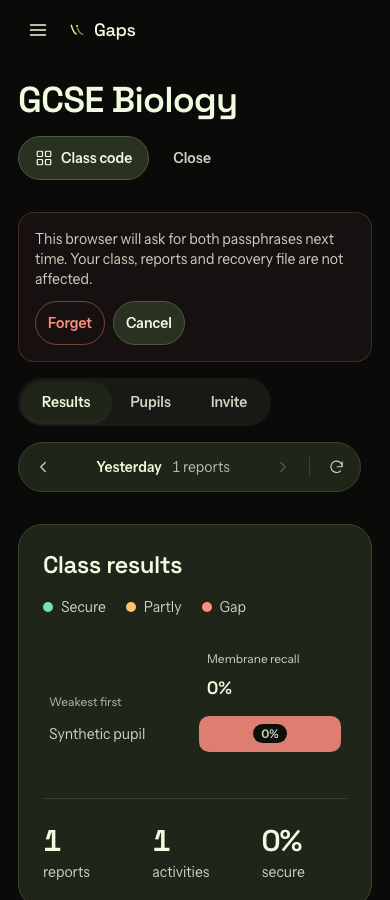
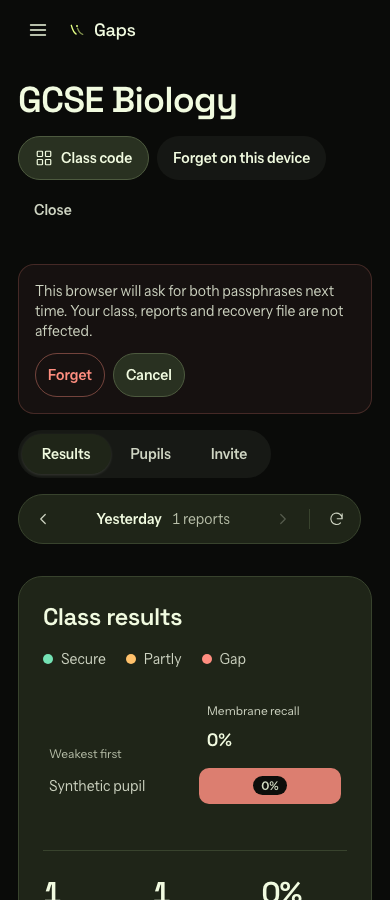
Make forgetting a remembered class all-or-error

diff --git a/src/teacher/TeacherClassReports.tsx b/src/teacher/TeacherClassReports.tsx
@@ -100,6 +100,7 @@ export function ClassPage({
   const earliest = isoDayLabel(isoDayStartMs(latest) - (RETENTION_DAYS - 1) * DAY_MS);
   const [forgetting, setForgetting] = useState(false);
   const [forgetBusy, setForgetBusy] = useState(false);
+  const [forgetError, setForgetError] = useState('');
   const forgetTrigger = useRef<HTMLButtonElement>(null);
   const cancelForget = useRef<HTMLButtonElement>(null);
   const wasForgetting = useRef(false);
@@ -180,7 +181,7 @@ export function ClassPage({
         <h1 tabIndex={-1} data-page-title className={cn(PAGE_TITLE, 'min-w-0 break-words')}>
           {course.courseName}
         </h1>
-        <div className="flex shrink-0 items-center gap-2">
+        <div className="flex min-w-0 flex-wrap items-center gap-2">
           {session && (
             <>
               <button
@@ -190,6 +191,16 @@ export function ClassPage({
               >
                 <QrCodeIcon width={18} height={18} /> Class code
               </button>
+              {session.remembered && (
+                <button
+                  ref={forgetTrigger}
+                  type="button"
+                  className={buttonClassName('ghost')}
+                  onClick={() => setForgetting(true)}
+                >
+                  Forget on this device
+                </button>
+              )}
               <button type="button" onClick={onLock} className={buttonClassName('ghost')}>
                 {session.remembered ? 'Close' : 'Lock'}
               </button>
@@ -198,60 +209,62 @@ export function ClassPage({
         </div>
       </header>
 
-      {session?.remembered && (
+      {session?.remembered && forgetting && (
         <div className="mb-4">
-          {forgetting ? (
-            <div
-              role="group"
-              aria-busy={forgetBusy}
-              onKeyDown={(event) => {
-                if (event.key === 'Escape' && !forgetBusy) {
-                  setForgetting(false);
-                }
-              }}
-              className="gaps-fade flex flex-col gap-3 rounded-2xl border border-negative/20 bg-negative/5 p-4 sm:flex-row sm:items-center"
-            >
-              <span className="min-w-0 flex-1 text-sm text-ink-soft">
+          <div
+            role="group"
+            aria-busy={forgetBusy}
+            onKeyDown={(event) => {
+              if (event.key === 'Escape' && !forgetBusy) {
+                setForgetError('');
+                setForgetting(false);
+              }
+            }}
+            className="gaps-fade flex flex-col gap-3 rounded-2xl border border-negative/20 bg-negative/5 p-4 sm:flex-row sm:items-center"
+          >
+            <div className="min-w-0 flex-1">
+              <p className="text-sm text-ink-soft">
                 This browser will ask for both passphrases next time. Your class, reports and
                 recovery file are not affected.
-              </span>
-              <div className="flex flex-wrap gap-2">
-                <button
-                  type="button"
-                  disabled={forgetBusy}
-                  className={buttonClassName('danger', 'sm')}
-                  onClick={() => {
-                    setForgetBusy(true);
-                    void forgetRememberedClass(course.shareId)
-                      .then(onLock)
-                      .catch(() => setForgetBusy(false));
-                  }}
-                >
-                  Forget
-                </button>
-                <button
-                  ref={cancelForget}
-                  type="button"
-                  disabled={forgetBusy}
-                  className={buttonClassName('secondary', 'sm')}
-                  onClick={() => {
-                    setForgetting(false);
-                  }}
-                >
-                  Cancel
-                </button>
-              </div>
+              </p>
+              {forgetError && (
+                <p role="alert" className="text-negative text-sm">
+                  {forgetError}
+                </p>
+              )}
             </div>
-          ) : (
-            <button
-              ref={forgetTrigger}
-              type="button"
-              className={buttonClassName('secondary')}
-              onClick={() => setForgetting(true)}
-            >
-              Forget on this device
-            </button>
-          )}
+            <div className="flex flex-wrap gap-2">
+              <button
+                type="button"
+                disabled={forgetBusy}
+                className={buttonClassName('danger', 'sm')}
+                onClick={() => {
+                  setForgetError('');
+                  setForgetBusy(true);
+                  void forgetRememberedClass(course.shareId)
+                    .then(onLock)
+                    .catch(() => {
+                      setForgetError('Could not forget this class. Try again.');
+                      setForgetBusy(false);
+                    });
+                }}
+              >
+                Forget
+              </button>
+              <button
+                ref={cancelForget}
+                type="button"
+                disabled={forgetBusy}
+                className={buttonClassName('secondary', 'sm')}
+                onClick={() => {
+                  setForgetError('');
+                  setForgetting(false);
+                }}
+              >
+                Cancel
+              </button>
+            </div>
+          </div>
         </div>
       )}
 

diff --git a/src/teacher/rememberedClass.test.ts b/src/teacher/rememberedClass.test.ts
@@ -1,6 +1,8 @@
 import 'fake-indexeddb/auto';
 import Dexie from 'dexie';
-import { afterEach, beforeEach, expect, it } from 'vitest';
+import { afterEach, beforeEach, expect, it, vi } from 'vitest';
+import * as ownerStore from '../insights/ownerStore';
+import * as connectionStore from './connectionStore';
 import { createInsightsOwnerStore } from '../insights/ownerStore';
 import { DEFAULT_RELAY_URL } from '../sync/pairingConfig';
 import { sealGapsConnection } from './connectionFile';
@@ -16,6 +18,7 @@ beforeEach(() => {
   keys = createInsightsOwnerStore();
 });
 afterEach(async () => {
+  vi.restoreAllMocks();
   connections.close();
   keys.close();
   await Dexie.delete('lacuna.gaps.connections');
@@ -44,7 +47,7 @@ it('reopens a complete session and forgets both credentials without removing the
     remembered: true,
   });
   await forgetRememberedClass(shareId);
-  expect(await readRememberedClass(shareId)).toBeNull();
+  expect(await readRememberedClass(shareId)).toBeUndefined();
   expect(await connections.readRemembered(shareId)).toBeNull();
   expect(await keys.readRemembered(shareId)).toBeNull();
   expect(await connections.unlock(shareId, phrase)).toEqual(session.connection);
@@ -62,7 +65,48 @@ it('deletes both device entries if the recovery recipient no longer matches', as
   await inspection.open();
   await inspection.table('remembered').update(shareId, { keyId: 'wrong' });
   inspection.close();
-  expect(await readRememberedClass(shareId)).toBeNull();
+  expect(await readRememberedClass(shareId)).toBeUndefined();
   expect(await connections.readRemembered(shareId)).toBeNull();
   expect(await keys.readRemembered(shareId)).toBeNull();
 });
+
+it.each(['connection', 'key'] as const)(
+  'falls back when only the %s artefact exists',
+  async (remaining) => {
+    const session = await fixture();
+    await rememberClass(session);
+    await (remaining === 'connection' ? keys : connections).forgetRemembered(shareId);
+    expect(await readRememberedClass(shareId)).toBeUndefined();
+    expect(await connections.readRemembered(shareId)).toBeNull();
+    expect(await keys.readRemembered(shareId)).toBeNull();
+  },
+);
+
+it.each(['connection', 'key'] as const)(
+  'still deletes the other artefact when %s deletion fails',
+  async (failing) => {
+    const session = await fixture();
+    await rememberClass(session);
+    const failure = new Error('Deletion failed');
+    if (failing === 'connection') {
+      vi.spyOn(connectionStore, 'createGapsConnectionStore').mockReturnValueOnce({
+        ...connections,
+        forgetRemembered: vi.fn().mockRejectedValue(failure),
+        close: vi.fn(),
+      });
+    } else {
+      vi.spyOn(ownerStore, 'createInsightsOwnerStore').mockReturnValueOnce({
+        ...keys,
+        forgetRemembered: vi.fn().mockRejectedValue(failure),
+        close: vi.fn(),
+      });
+    }
+    await expect(forgetRememberedClass(shareId)).rejects.toThrow(failure);
+    expect(
+      await (failing === 'connection' ? keys : connections).readRemembered(shareId),
+    ).toBeNull();
+    expect(
+      await (failing === 'connection' ? connections : keys).readRemembered(shareId),
+    ).not.toBeNull();
+  },
+);

diff --git a/src/teacher/TeacherClassReports.test.tsx b/src/teacher/TeacherClassReports.test.tsx
@@ -523,3 +523,44 @@ it('forgets a pending remember completion if removal revoked its session', async
   expect(mocks.forgetRemembered).toHaveBeenCalledWith(course.shareId);
   expect(mocks.read).not.toHaveBeenCalled();
 });
+
+it('keeps failed Forget visible and retryable until cancelled or retried', async () => {
+  mocks.remember.mockResolvedValue(true);
+  mocks.forgetRemembered.mockRejectedValue(new Error('Deletion failed'));
+  render(<Harness />);
+  await unlock();
+  const trigger = await screen.findByRole('button', { name: 'Forget on this device' });
+  fireEvent.click(trigger);
+  expect(screen.getByRole('button', { name: 'Cancel' })).toHaveFocus();
+  fireEvent.click(screen.getByRole('button', { name: /^Forget$/ }));
+  const alert = await screen.findByRole('alert');
+  expect(trigger.closest('header')).toContainElement(screen.getByRole('button', { name: 'Close' }));
+  expect(alert).toHaveTextContent('Could not forget this class. Try again.');
+  expect(alert).toHaveClass('text-negative', 'text-sm');
+  expect(alert.closest('[role="group"]')).toContainElement(
+    screen.getByRole('button', { name: /^Forget$/ }),
+  );
+  expect(screen.getByRole('button', { name: 'Close' })).toBeVisible();
+  expect(screen.queryByRole('form', { name: 'Unlock class' })).not.toBeInTheDocument();
+  expect(screen.getByRole('button', { name: /^Forget$/ })).toBeEnabled();
+  expect(screen.getByRole('button', { name: 'Cancel' })).toBeEnabled();
+  fireEvent.click(screen.getByRole('button', { name: 'Cancel' }));
+  expect(screen.queryByRole('alert')).not.toBeInTheDocument();
+  expect(trigger).toHaveFocus();
+  fireEvent.click(trigger);
+  expect(screen.queryByRole('alert')).not.toBeInTheDocument();
+  fireEvent.click(screen.getByRole('button', { name: /^Forget$/ }));
+  await screen.findByRole('alert');
+  let finish!: () => void;
+  mocks.forgetRemembered.mockReturnValueOnce(
+    new Promise<void>((resolve) => {
+      finish = resolve;
+    }),
+  );
+  fireEvent.click(screen.getByRole('button', { name: /^Forget$/ }));
+  expect(screen.queryByRole('alert')).not.toBeInTheDocument();
+  expect(screen.getByRole('button', { name: /^Forget$/ })).toBeDisabled();
+  expect(screen.getByRole('button', { name: 'Cancel' })).toBeDisabled();
+  await act(async () => finish());
+  expect(await screen.findByRole('form', { name: 'Unlock class' })).toBeVisible();
+});

diff --git a/tests/e2e/gaps-course-connection.spec.ts b/tests/e2e/gaps-course-connection.spec.ts
@@ -184,6 +184,17 @@ for (const width of [1280, 390]) {
     await unlock.getByRole('button', { name: 'Unlock class', exact: true }).click();
     await expect(page.getByRole('button', { name: 'Close', exact: true })).toBeVisible();
     await expect(page.getByRole('button', { name: 'Synthetic pupil', exact: true })).toBeVisible();
+    const header = page
+      .locator('header')
+      .filter({ has: page.getByRole('heading', { name: 'GCSE Biology', exact: true }) });
+    const forgetTrigger = header.getByRole('button', { name: 'Forget on this device' });
+    await expect(forgetTrigger).toBeVisible();
+    await expect(header.getByRole('button', { name: 'Close', exact: true })).toHaveClass(
+      (await forgetTrigger.getAttribute('class')) ?? '',
+    );
+    expect(
+      await page.evaluate(() => document.documentElement.scrollWidth <= window.innerWidth),
+    ).toBe(true);
     await page.screenshot({
       animations: 'disabled',
       path: testInfo.outputPath(`remembered-${width}.png`),
@@ -197,6 +208,7 @@ for (const width of [1280, 390]) {
     await expect(unlock).toHaveCount(0);
     await expect(page.getByRole('button', { name: 'Synthetic pupil', exact: true })).toBeVisible();
     await page.getByRole('button', { name: 'Forget on this device' }).click();
+    await expect(page.getByRole('button', { name: 'Cancel', exact: true })).toBeFocused();
     await expect(
       page.getByText(
         'This browser will ask for both passphrases next time. Your class, reports and recovery file are not affected.',
@@ -208,6 +220,7 @@ for (const width of [1280, 390]) {
       fullPage: true,
     });
     await page.getByRole('button', { name: 'Cancel', exact: true }).click();
+    await expect(forgetTrigger).toBeFocused();
     await page.getByRole('button', { name: 'Forget on this device' }).click();
     await page.getByRole('button', { name: 'Forget', exact: true }).click();
     await expect(page.getByRole('heading', { name: 'Today', exact: true })).toBeVisible();

diff --git a/src/teacher/rememberedClass.ts b/src/teacher/rememberedClass.ts
@@ -22,7 +22,7 @@ export async function rememberClass(session: ClassSession): Promise<boolean> {
   }
 }
 
-export async function readRememberedClass(shareId: string): Promise<ClassSession | null> {
+export async function readRememberedClass(shareId: string): Promise<ClassSession | undefined> {
   const connections = createGapsConnectionStore();
   const keys = createInsightsOwnerStore();
   try {
@@ -31,9 +31,9 @@ export async function readRememberedClass(shareId: string): Promise<ClassSession
     if (owner && connection) return { owner, connection, remembered: true, days: new Map() };
     await connections.forgetRemembered(shareId);
     await keys.forgetRemembered(shareId);
-    return null;
+    return undefined;
   } catch {
-    return null;
+    return undefined;
   } finally {
     connections.close();
     keys.close();
@@ -44,8 +44,12 @@ export async function forgetRememberedClass(shareId: string): Promise<void> {
   const connections = createGapsConnectionStore();
   const keys = createInsightsOwnerStore();
   try {
-    await connections.forgetRemembered(shareId);
-    await keys.forgetRemembered(shareId);
+    const results = await Promise.allSettled([
+      keys.forgetRemembered(shareId),
+      connections.forgetRemembered(shareId),
+    ]);
+    const failure = results.find((result) => result.status === 'rejected');
+    if (failure) throw failure.reason;
   } finally {
     connections.close();
     keys.close();
